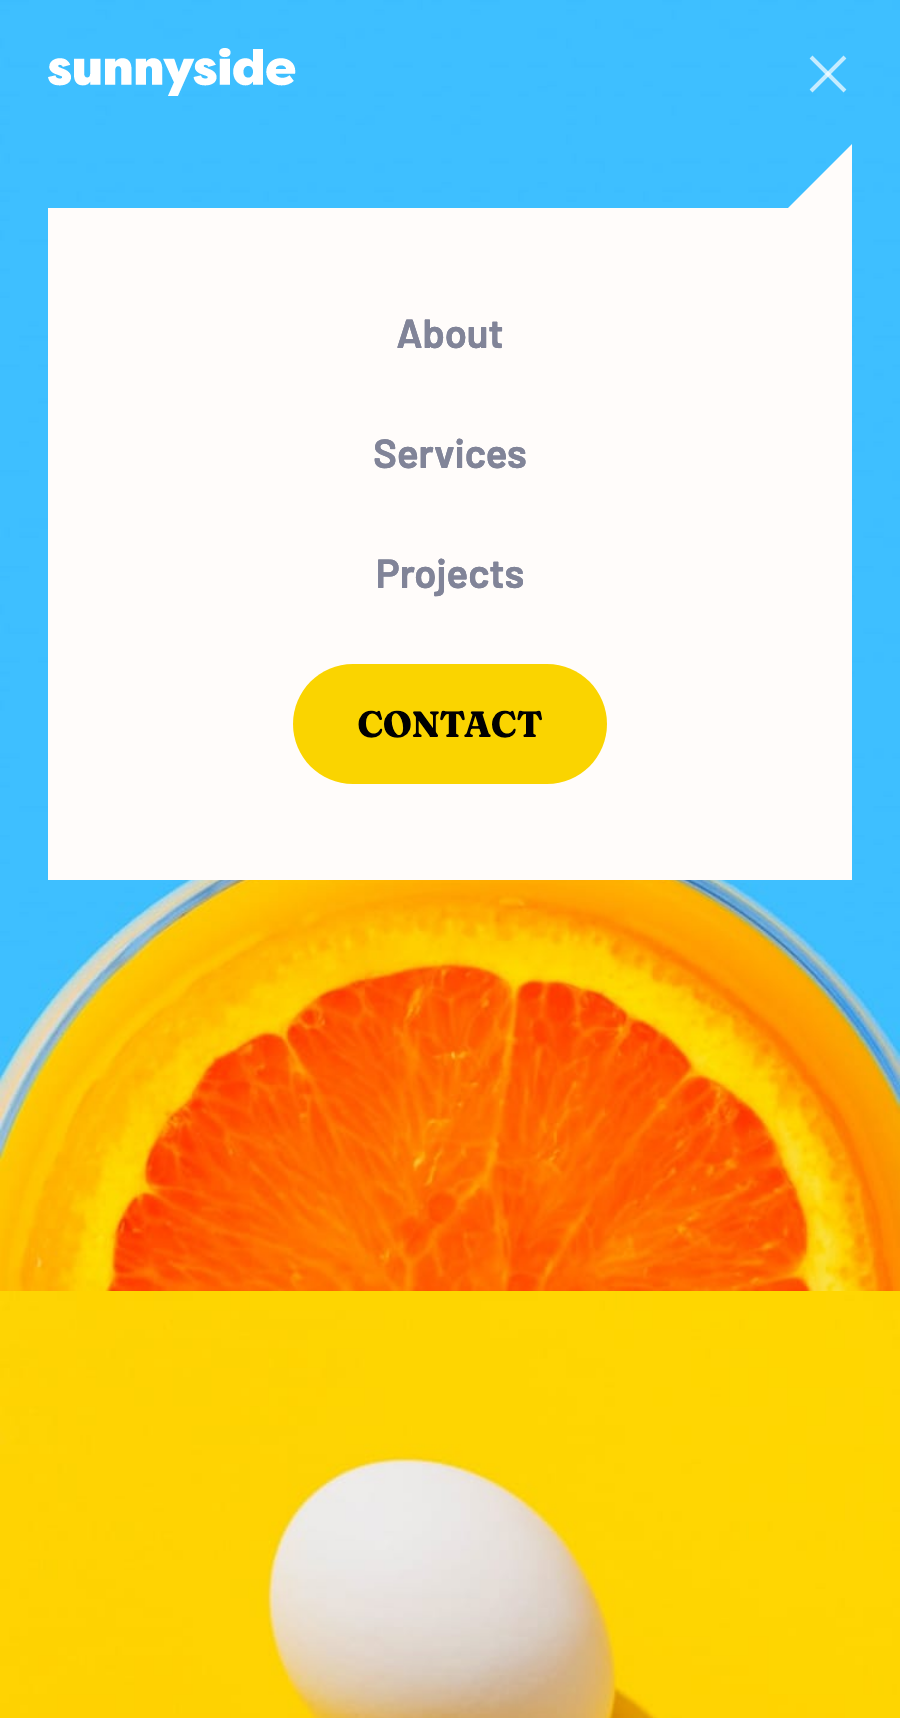
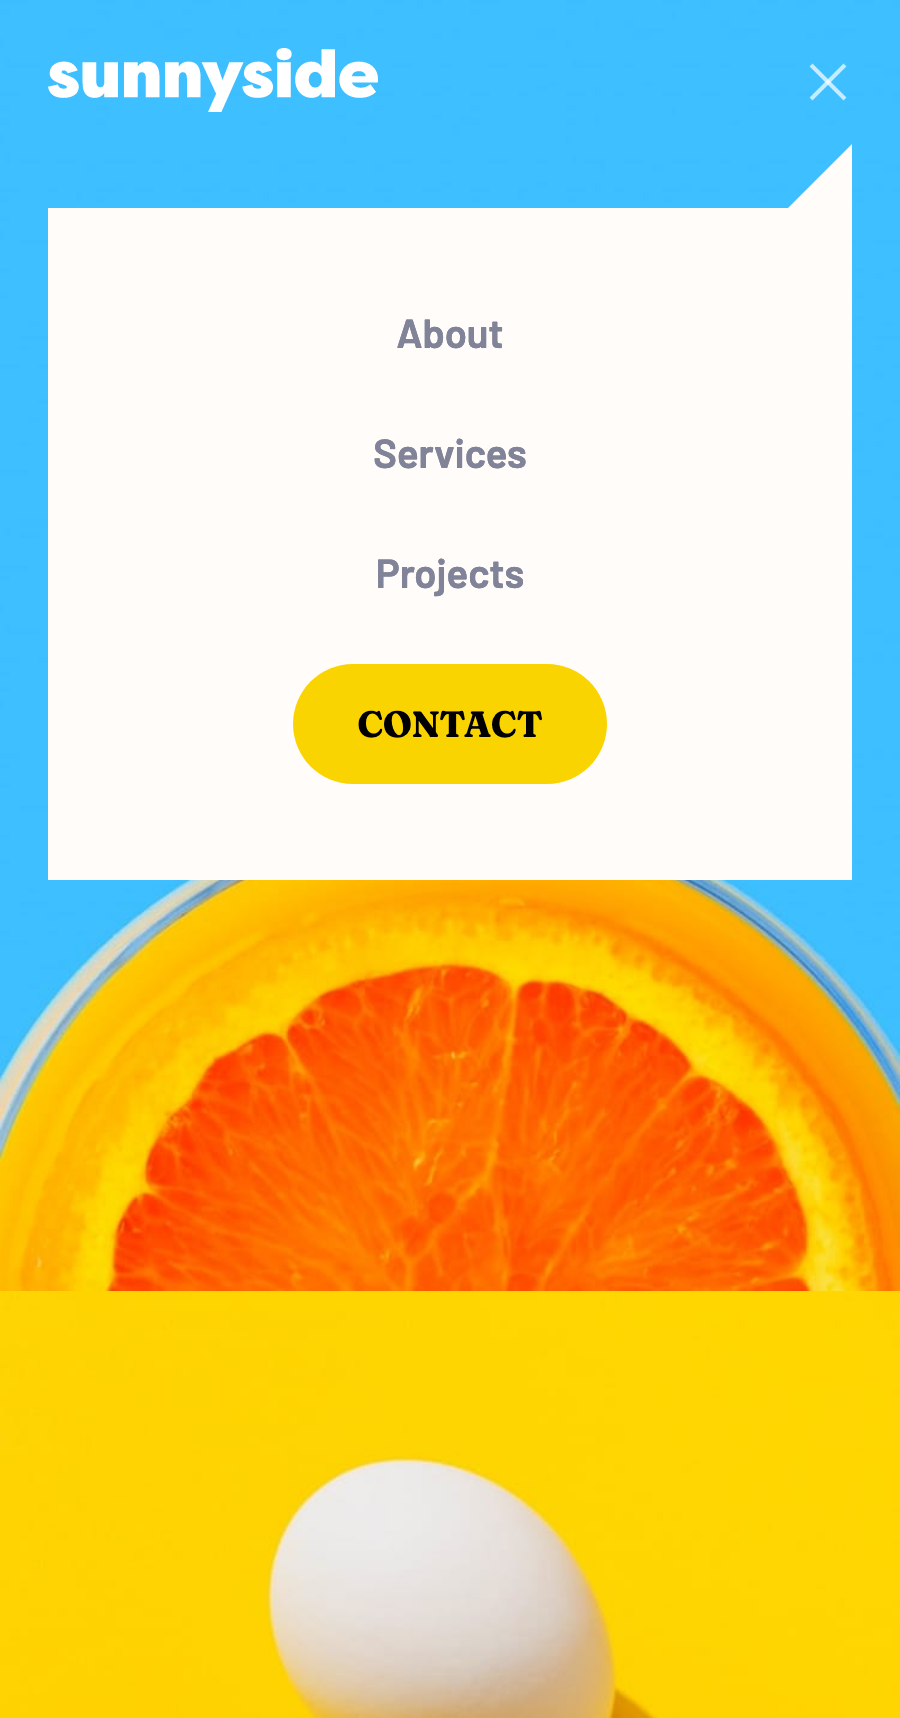
small layout fixes

Changed region(s): [[0.0311, 0.0308, 0.4356, 0.0617], [0.9022, 0.0308, 0.9333, 0.0617]]

diff --git a/src/components/navigation.tsx b/src/components/navigation.tsx
@@ -1,14 +1,13 @@
 import { useState } from 'react';
-import { Logo } from '~/components/logo';
 import { cn } from '~/utils/cn';
 
 export const Navigation: React.FC = () => {
   const [isToggled, setIsToggled] = useState(false);
 
   return (
-    <nav className="relative flex w-full select-none items-center justify-between p-6 text-white">
+    <nav className="relative flex w-full select-none items-center justify-between p-6 text-white lg:p-10">
       <a href="#">
-        <Logo />
+        <img className="h-8" src="/logo-white.svg" alt="sunnyside" />
       </a>
 
       <button
